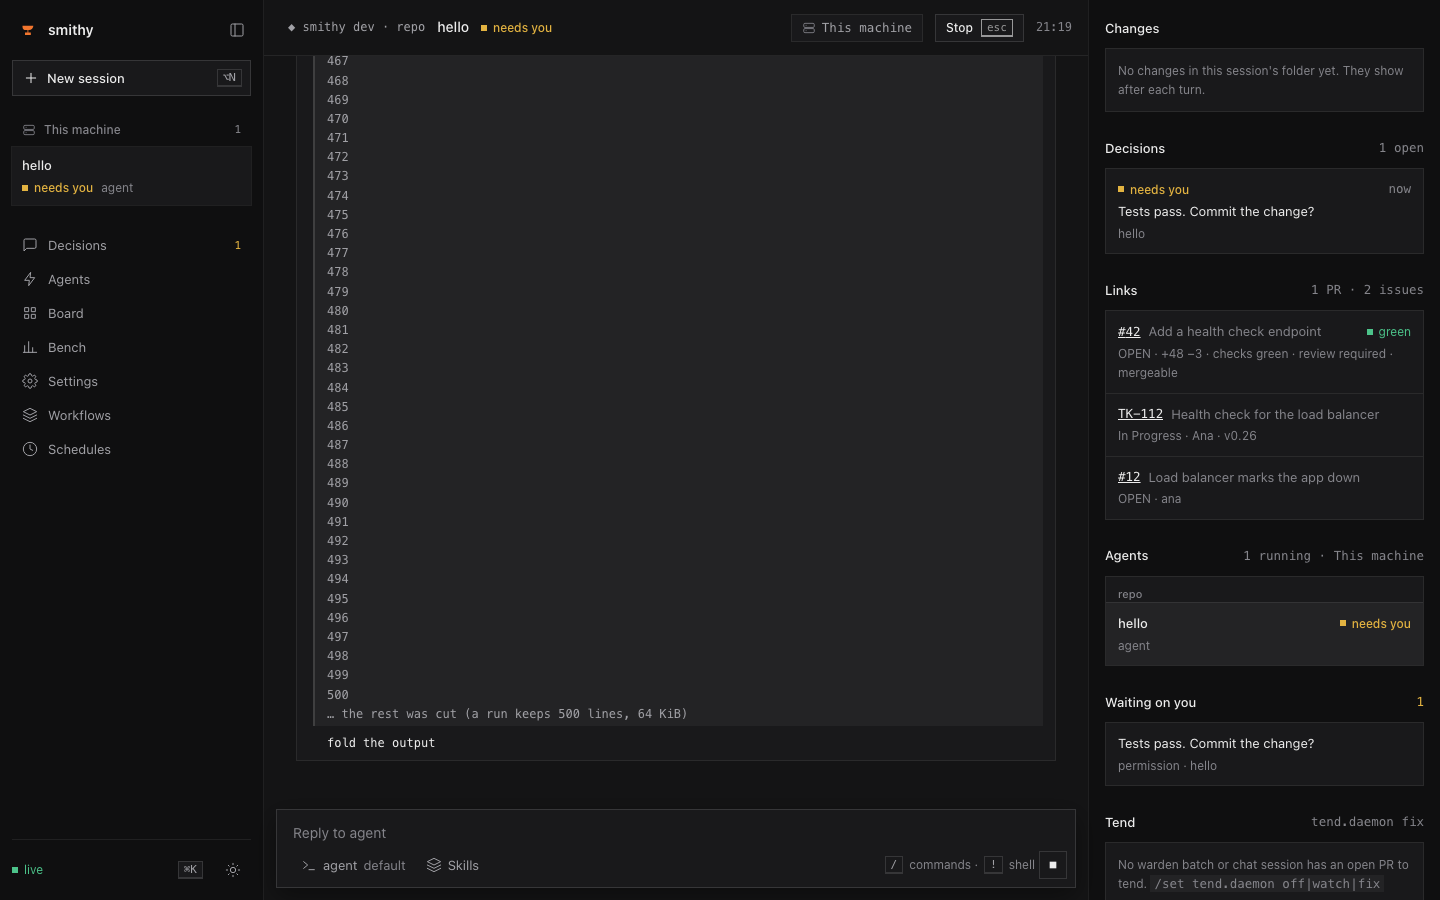
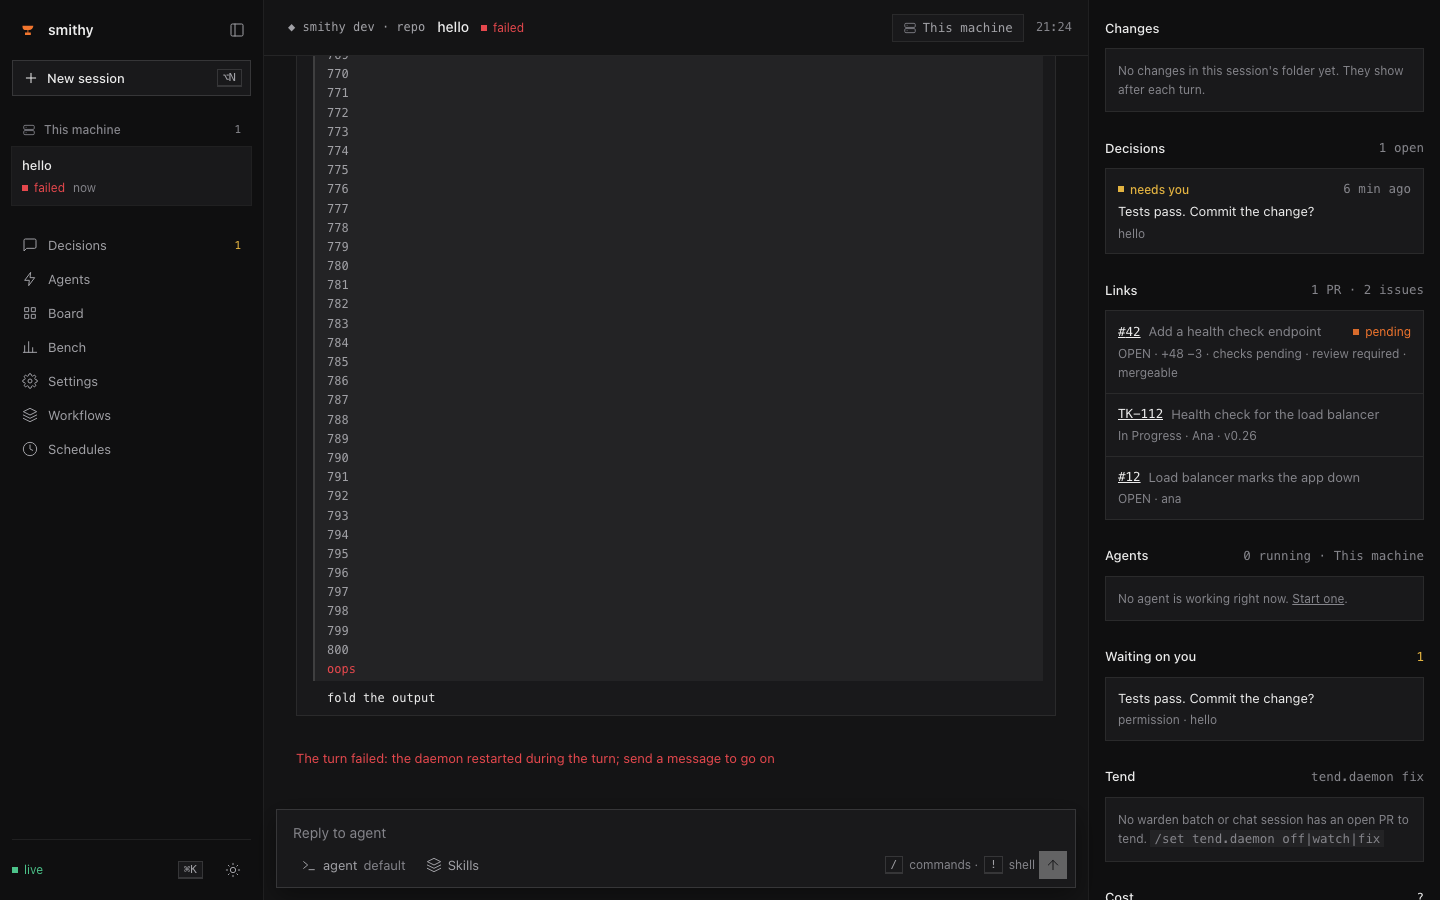
docs: changelog and screenshots for head and tail shell output

diff --git a/CHANGELOG.md b/CHANGELOG.md
@@ -46,7 +46,7 @@ part above `### Details`.
 - The agents' system prompt is shorter and direct, and no longer names the CLI underneath.
 - A settings command's usage line names only that command, and enter on `/set` (or any command that needs arguments) fills it in instead of running it bare.
 - ctrl+k and ctrl+l redraw the whole TUI, so clearing the terminal no longer leaves a dimmed screen.
-- A `!cmd` run is part of the session: the TUI, the web and a reopened `smithy chat --session` all show it. A run keeps 500 lines (64 KiB), folds to 20 with "N more lines", and when it was longer the open view ends with one line saying the rest was cut.
+- A `!cmd` run is part of the session: the TUI, the web and a reopened `smithy chat --session` all show it. A run keeps its first and last 250 lines (64 KiB in all) with one `… N lines cut …` line between them, so errors printed last still show, and folds to 20 lines with "N more lines".
 - `smithy tui` is gone: run `smithy stats`. The `tui.reduce_motion` setting is now `ui.reduce_motion`; a saved `tui.reduce_motion` still works.
 
 ### Details
